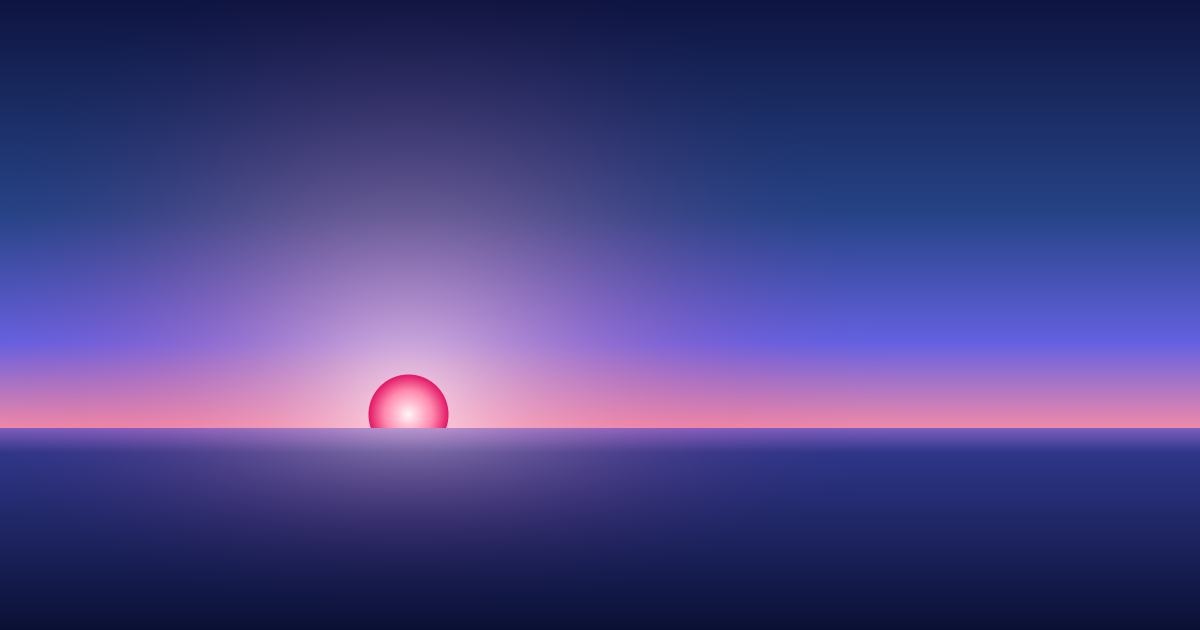
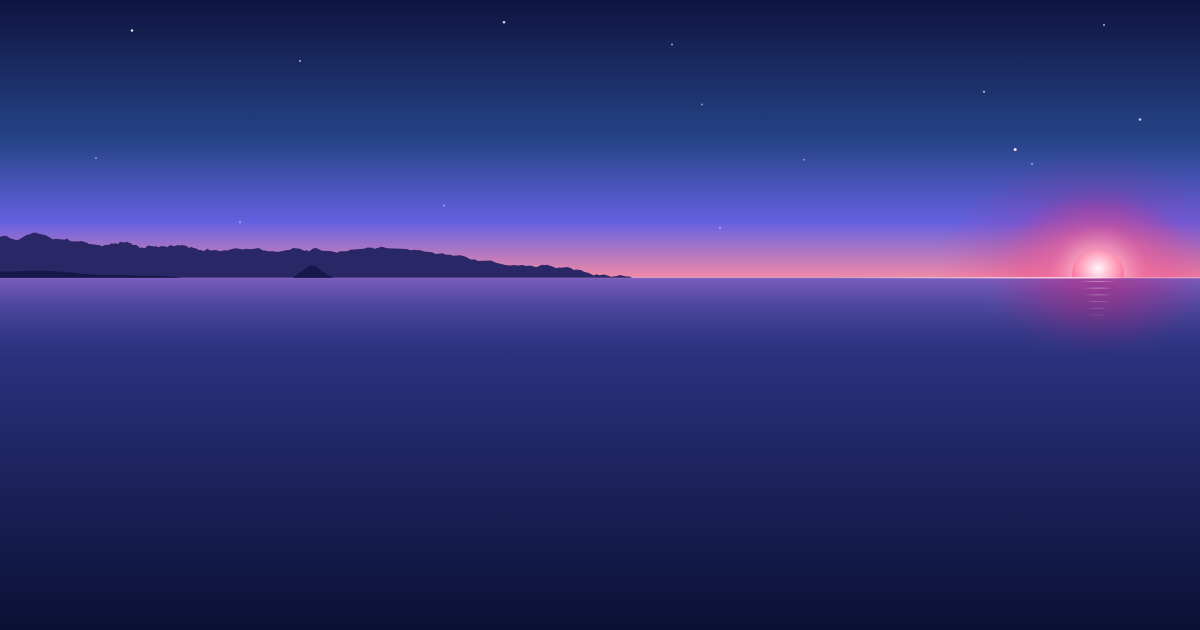
The app's sky behind every page

diff --git a/index.html b/index.html
@@ -9,14 +9,14 @@
 <style>
   * { box-sizing: border-box; margin: 0; }
   html { background: #0E1440; }
-  /* The Dusk sky, held still: its bands from the top to the horizon. */
+  /* The app's Dusk sky, held still. */
   body::before {
     content: '';
     position: fixed;
     inset: 0 0 auto;
     height: 100vh;
     z-index: -1;
-    background: linear-gradient(#0E1440, #264386 50%, #6461E0 80%, #F08AA8);
+    background: url(sky.svg) 0 0 / 100% 100%;
   }
   body {
     max-width: 560px;

diff --git a/privacy.html b/privacy.html
@@ -9,14 +9,14 @@
 <style>
   * { box-sizing: border-box; margin: 0; }
   html { background: #0E1440; }
-  /* The Dusk sky, held still: its bands from the top to the horizon. */
+  /* The app's Dusk sky, held still. */
   body::before {
     content: '';
     position: fixed;
     inset: 0 0 auto;
     height: 100vh;
     z-index: -1;
-    background: linear-gradient(#0E1440, #264386 50%, #6461E0 80%, #F08AA8);
+    background: url(sky.svg) 0 0 / 100% 100%;
   }
   body {
     max-width: 560px;

diff --git a/invite/index.html b/invite/index.html
@@ -21,7 +21,7 @@ one page: status 200 and one preview card. Its button opens the app. -->
     display: grid;
     place-items: center;
     padding: 0 16px;
-    background: linear-gradient(#0E1440, #264386 50%, #6461E0 80%, #F08AA8);
+    background: url(../sky.svg) 0 0 / 100% 100%;
     font: 600 17px -apple-system, BlinkMacSystemFont, system-ui, sans-serif;
   }
   a {
